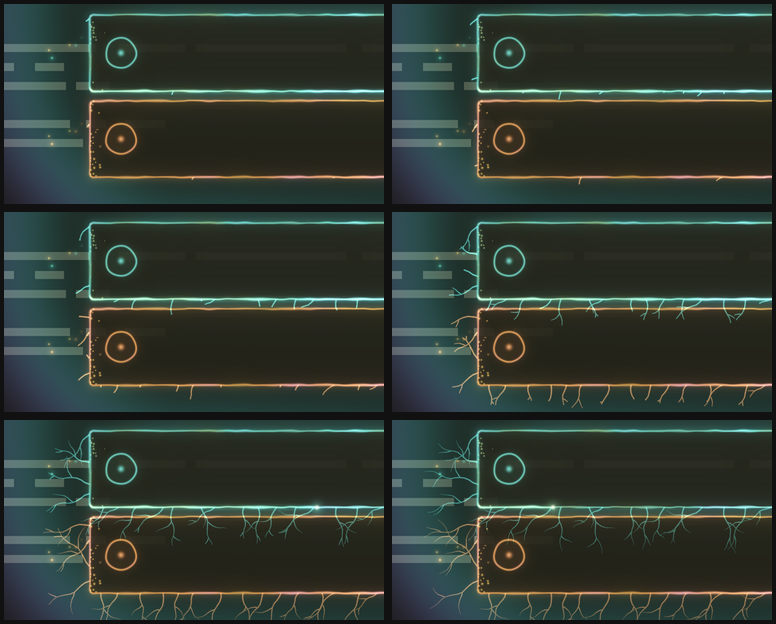
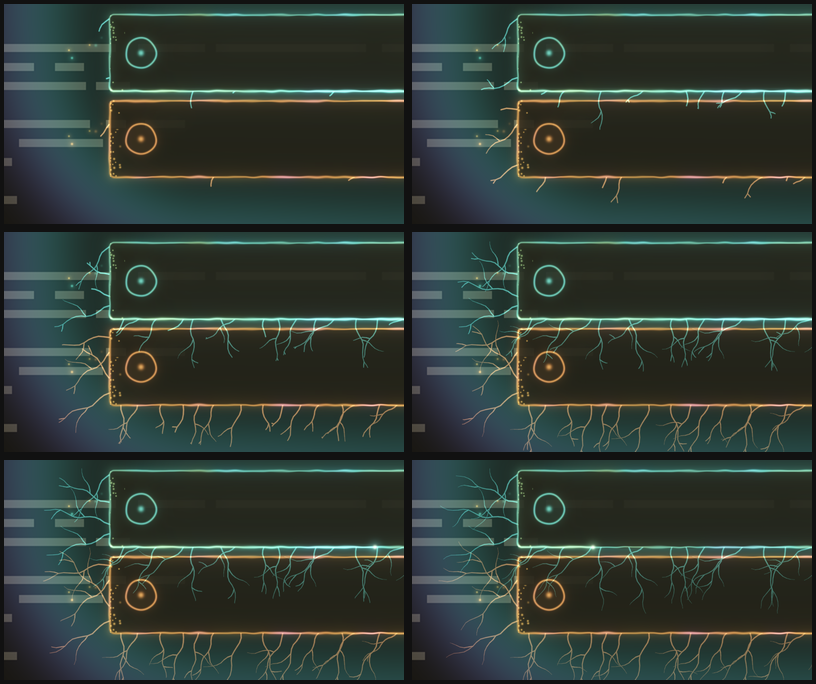
Growth: roots burst out, keep creeping, and are longer
Growth is now a burst (three quarters of the length, an ease-out of power 3 over 7 to 12% of the life, every root starting
within the first 5%) followed by a slow even creep to each root's finish between 80 and 94% of the life. The roots are
much longer (left 1.4 to 2.0x, bottom 1.1 to 1.7x, 16 steps per trunk), with a larger overlay margin (110 px) and early-outs
that follow the grown radius. Render only, at the user's request.

Changed region(s): [[0.0, 0.3349, 1.0, 1.0], [0.0, 0.0, 1.0, 0.3349]]

diff --git a/components/ToastRim.qml b/components/ToastRim.qml
@@ -30,7 +30,7 @@ Item {
 
   property real energy: 1
   property real time: 0
-  readonly property real margin: 80    // the halo needs 20, the faint spores 56, and the Growth look's roots up to about 70
+  readonly property real margin: 110    // the halo needs 20, the faint spores 56, and the Growth look's roots up to about 100
 
   anchors.fill: target
   anchors.margins: -margin

diff --git a/test/rim-preview.py b/test/rim-preview.py
@@ -42,7 +42,7 @@ for c in cards:                                                     # the card b
     img = img * (1 - a[..., None]) + body * a[..., None]
 
 for c in cards:                                                     # the shader's output for each, over a margin
-    mx = 80 if (float(SPORES) > 0 or SHADER == 'toastgrowth') else 20   # the faint spores drift up to ~50 px out of the left edge, the roots further
+    mx = 110 if (float(SPORES) > 0 or SHADER == 'toastgrowth') else 20   # the faint spores drift up to ~50 px out of the left edge, the roots further
     ox, oy = 320 - mx, max(c["y"] - mx, 0)
     ow, oh = 380 + 2 * mx, (c["y"] - oy) + 78 + mx
     env = dict(os.environ, EGL_PLATFORM="surfaceless", LIBGL_ALWAYS_SOFTWARE="1",

diff --git a/docs/design/README.md b/docs/design/README.md
@@ -61,15 +61,15 @@ mock-up C, whose wavy outline and ragged strip read as glitches:
 - **Lichen is a scatter of tiny dots**, jittered so it is not a grid, clustered in patches on the left edge inside the card,
   thinning inward and kept clear of the icon; not a ragged strip. (A denser, deeper version, creeping along the top and bottom
   too, was tried after the first live test and was too much and in the way: the user had meant the roots, below, not the lichen.)
-- **Roots**: fine curves with two side branches, along the left edge (about one per 18 px of the card's height) and the bottom edge
-  (about one per 20 px of its width), 1.0 to 1.5 times the first length on the left (up to about 65 px) and a little shorter below,
-  where the gap to the toast below is small (they pass behind it; under the last toast the screen is free). Those near the top
-  lean down and those near the bottom lean up, so they stay in the card's band. **They grow over the toast's whole life**, not
-  at arrival: each starts at its own moment (in the first 14% of the life) and finishes at its own (between 80% and 94% of it,
-  so the last is done shortly before the countdown completes). It bursts out and slows hard (an ease-out of power 3.5: 30% grown
-  a tenth of the way through its time, 64% a quarter of the way, 91% half way, then it creeps; an earlier power of 2 was not
-  dramatic enough). `growth-stages.png`: 2%, 5%, 10%, 20%, 40% and 80% of the life. Fainter ones grow across the card from its right corners. The first version had one per
-  corner and grew in 1.5 s.
+- **Roots**: fine curves with two side branches, along the left edge (about one per 18 px of the card's height, 67 to 96 px long) and the
+  bottom edge (about one per 20 px of its width, 53 to 82 px; under a toast with another below they pass behind it, and under the
+  last toast the screen is free). Those near the top lean down and those near the bottom lean up, so they stay in the card's band.
+  **Growth is a burst, then a creep, over the toast's whole life**: every root starts within the first 5% of the life (nearly
+  together, with a little stagger) and three quarters of its length comes in the burst, an ease-out of power 3 over 7 to 12% of the life
+  (about a second); the rest creeps in slowly and evenly, each root finishing at its own moment between 80% and 94% of the life, so
+  the last is done shortly before the countdown completes. `growth-stages.png`: 1%, 3%, 6%, 12%, 30% and 80% of the life. Earlier
+  versions: one root per corner growing in 1.5 s; then an ease-out of power 2, then 3.5 over a long window, each judged not
+  dramatic enough. Fainter ones grow across the card from its right corners.
 - **The countdown is the bottom border itself, lit**: drawn from the same distance field and sway as the outline, so it lies
   exactly on it and the two read as one line (the first version ran 3 px above the border, which the user saw as two lines).
   Where there is time left the border is brighter and thicker, its thickness undulating along it like a vein; the part that has run

diff --git a/AGENTS.md b/AGENTS.md
@@ -249,7 +249,7 @@ Plan: the exit dissolves into spores, and a faint drift off a card. Both are bui
 
 `look=growth` in the fork's conf file (parsed by `parseLook`, `blend` otherwise) makes `ToastRim` load `shaders/toastgrowth.frag`
 instead of `toastrim.frag`; same overlay, same added-light output, same uniforms plus `seed` (random per toast) and `growth`
-(0 to 1: how far through its life the toast is, from `1 - remaining` and never decreasing, so the roots grow over the whole life, each with its own start and finish, the last by 94%, via `rootReach` in the shader; a toast without a countdown, i.e. critical, animates it over 8 s times `motion_slowdown`). `ToastRim`'s margin is 80 px for the roots. Both shaders declare the **same uniform
+(0 to 1: how far through its life the toast is, from `1 - remaining` and never decreasing, so the roots grow over the whole life, each with its own start and finish, the last by 94%, via `rootReach` in the shader: a burst over the first ~1 s with a slow creep after; a toast without a countdown, i.e. critical, animates it over 8 s times `motion_slowdown`). `ToastRim`'s margin is 110 px for the roots. Both shaders declare the **same uniform
 set** (the blend's `seed` and `growth` are unused) so `ToastRim`'s ShaderEffect feeds either; `shader-test.sh` and
 `growth-test.sh` both check that. What the design does and why (the mock-up's wavy outline and ragged strip read as glitches, so
 the outline stays straight and is alive instead; lichen is jittered dots; veins are curves with branches that cannot reach the
@@ -273,6 +273,10 @@ fix before releasing.
 **Roots, round 3 (2026-10-31):** left roots cut to one per 18 px, longer (scale 1.0 to 1.5), and the roots grow over the toast's life as above. Also
 committed **without running the tests** at the user's request: `test/growth-test.sh` treats `growth` as an arrival animation (growth 0.5 = half
 grown) and the vein regions assume the old lengths and the 30 px left margin of its overlay; expect to revisit it.
+
+**Roots, round 4:** the ease is a burst (power 3 over 7 to 12% of the life, starts within 5%) plus a linear creep to the root's finish
+(80 to 94%), and the roots are 1.4 to 2.0 times the old length on the left and 1.1 to 1.7 on the bottom, with 16 steps per trunk. Cost
+went up (a vein is now ~45 loop iterations; `vein()` returns early beyond its grown radius). Untested apart from renders.
 
 ## Conventions
 

diff --git a/docs/runbooks/live-checklist.md b/docs/runbooks/live-checklist.md
@@ -178,10 +178,12 @@ flipping between the two with the same notifications. The design is `docs/design
       and teal, and a slow pulse of light travels round it; the outline is **straight**, not wavy
 - [ ] **roots** (with side branches) hang from the left edge (about one per 18 px of height, so sparser than before) and the bottom
       edge (one per 20 px), longer than before; those on the left are not denser than those below
-- [ ] they **grow over the toast's whole life**, not all at once: they start at different moments, **burst out in the first second or two** (a dramatic start) and then
-      slow right down, and the last are **done slightly before the countdown line reaches the end** (it freezes with the countdown
-      while you hover; an update that restarts the countdown does not shrink them; a critical toast, which has no countdown,
-      grows them over about eight seconds)
+- [ ] they **burst out** when the toast arrives: within about a second nearly all of them shoot out almost together (a little
+      staggered), like a burst of activity; then they **keep growing slowly** for the rest of the toast's life, and the last are
+      done slightly before the countdown line reaches the end (the growth freezes with the countdown while you hover; an update
+      that restarts the countdown does not shrink them; a critical toast, which has no countdown, grows them over about eight seconds)
+- [ ] they are **long** (left ones up to about 95 px, bottom ones up to about 80 px) and do not look cut off at the end; with
+      several toasts at once nothing stutters (the roots are the most expensive part of the shader: say if it does)
 - [ ] fainter veins grow across the card from its right corners; none cross onto the toast below. Under a toast with another
       below, the roots from its bottom edge pass **behind** that one, not over it (say if they show on top of it)
 - [ ] on the left edge, inside the card, a **scatter of tiny dots (lichen)** in patches, thinning inward and kept clear of
